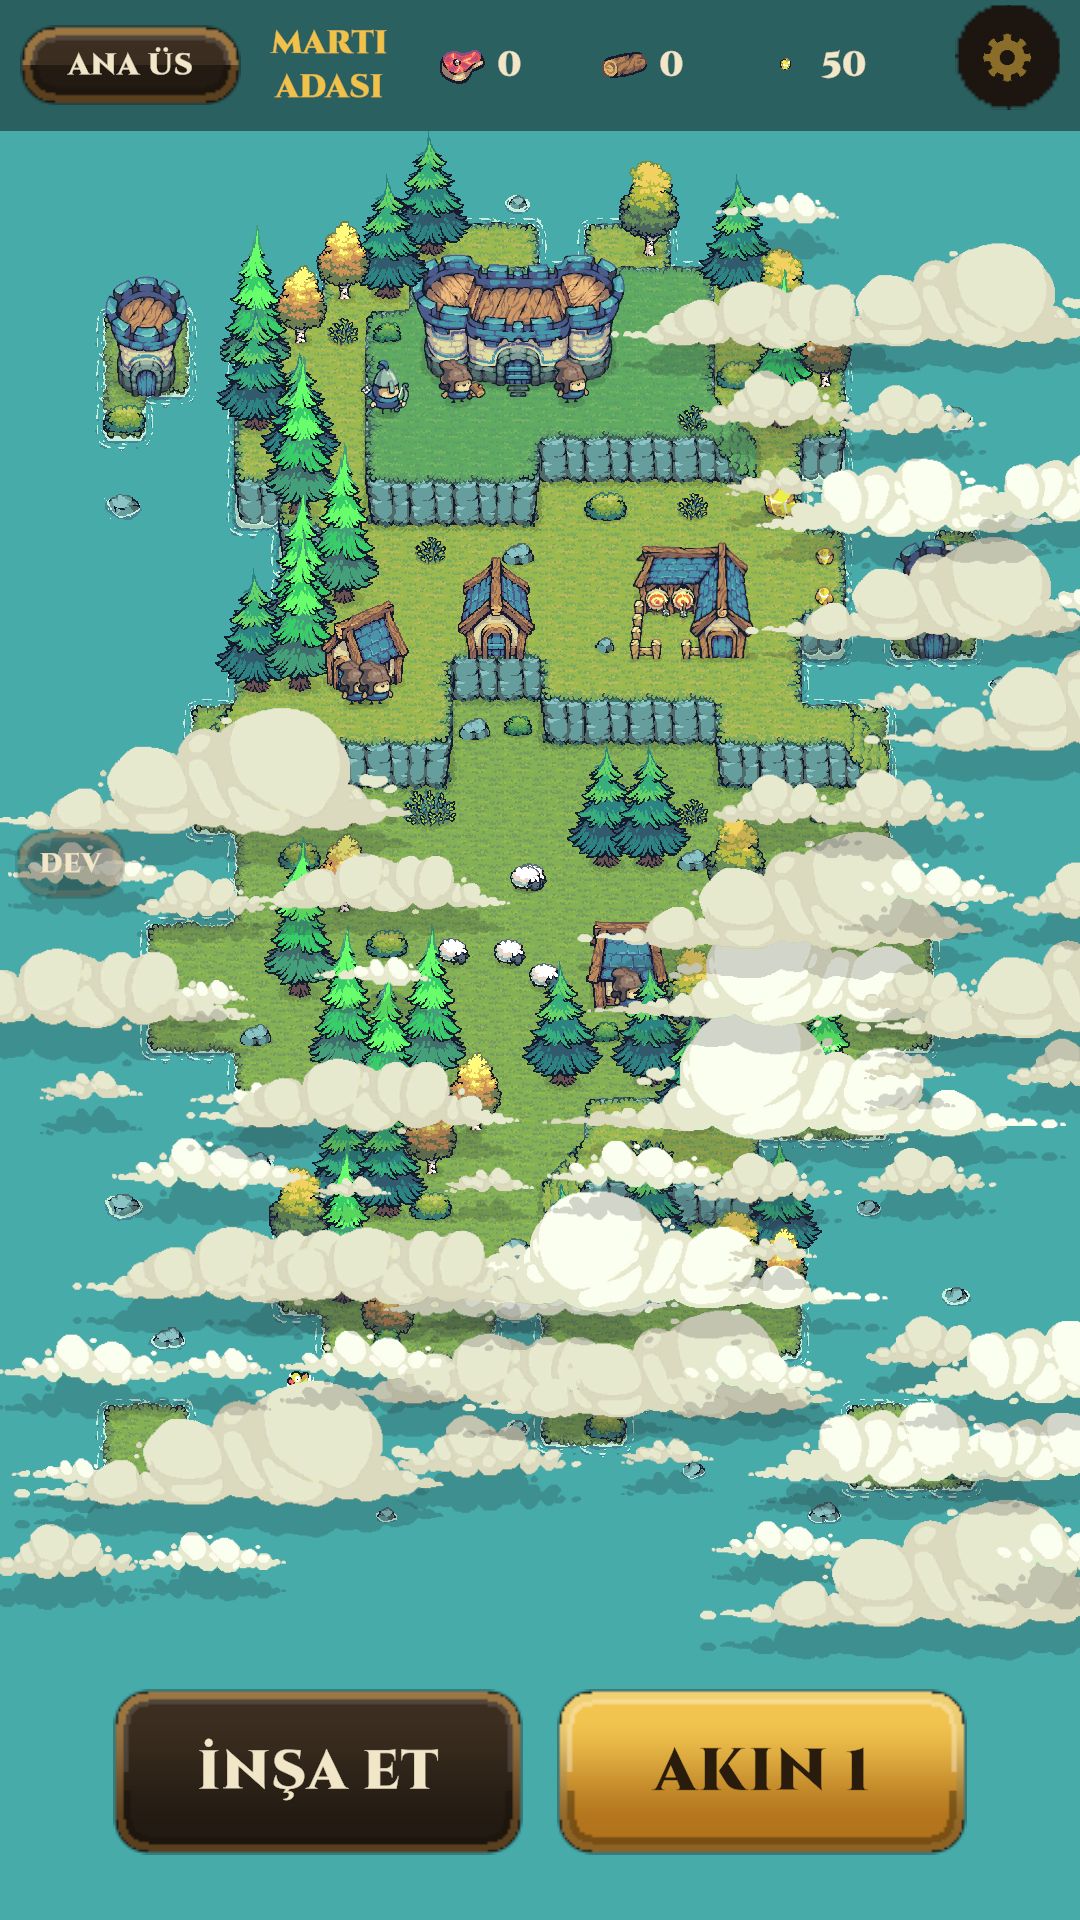
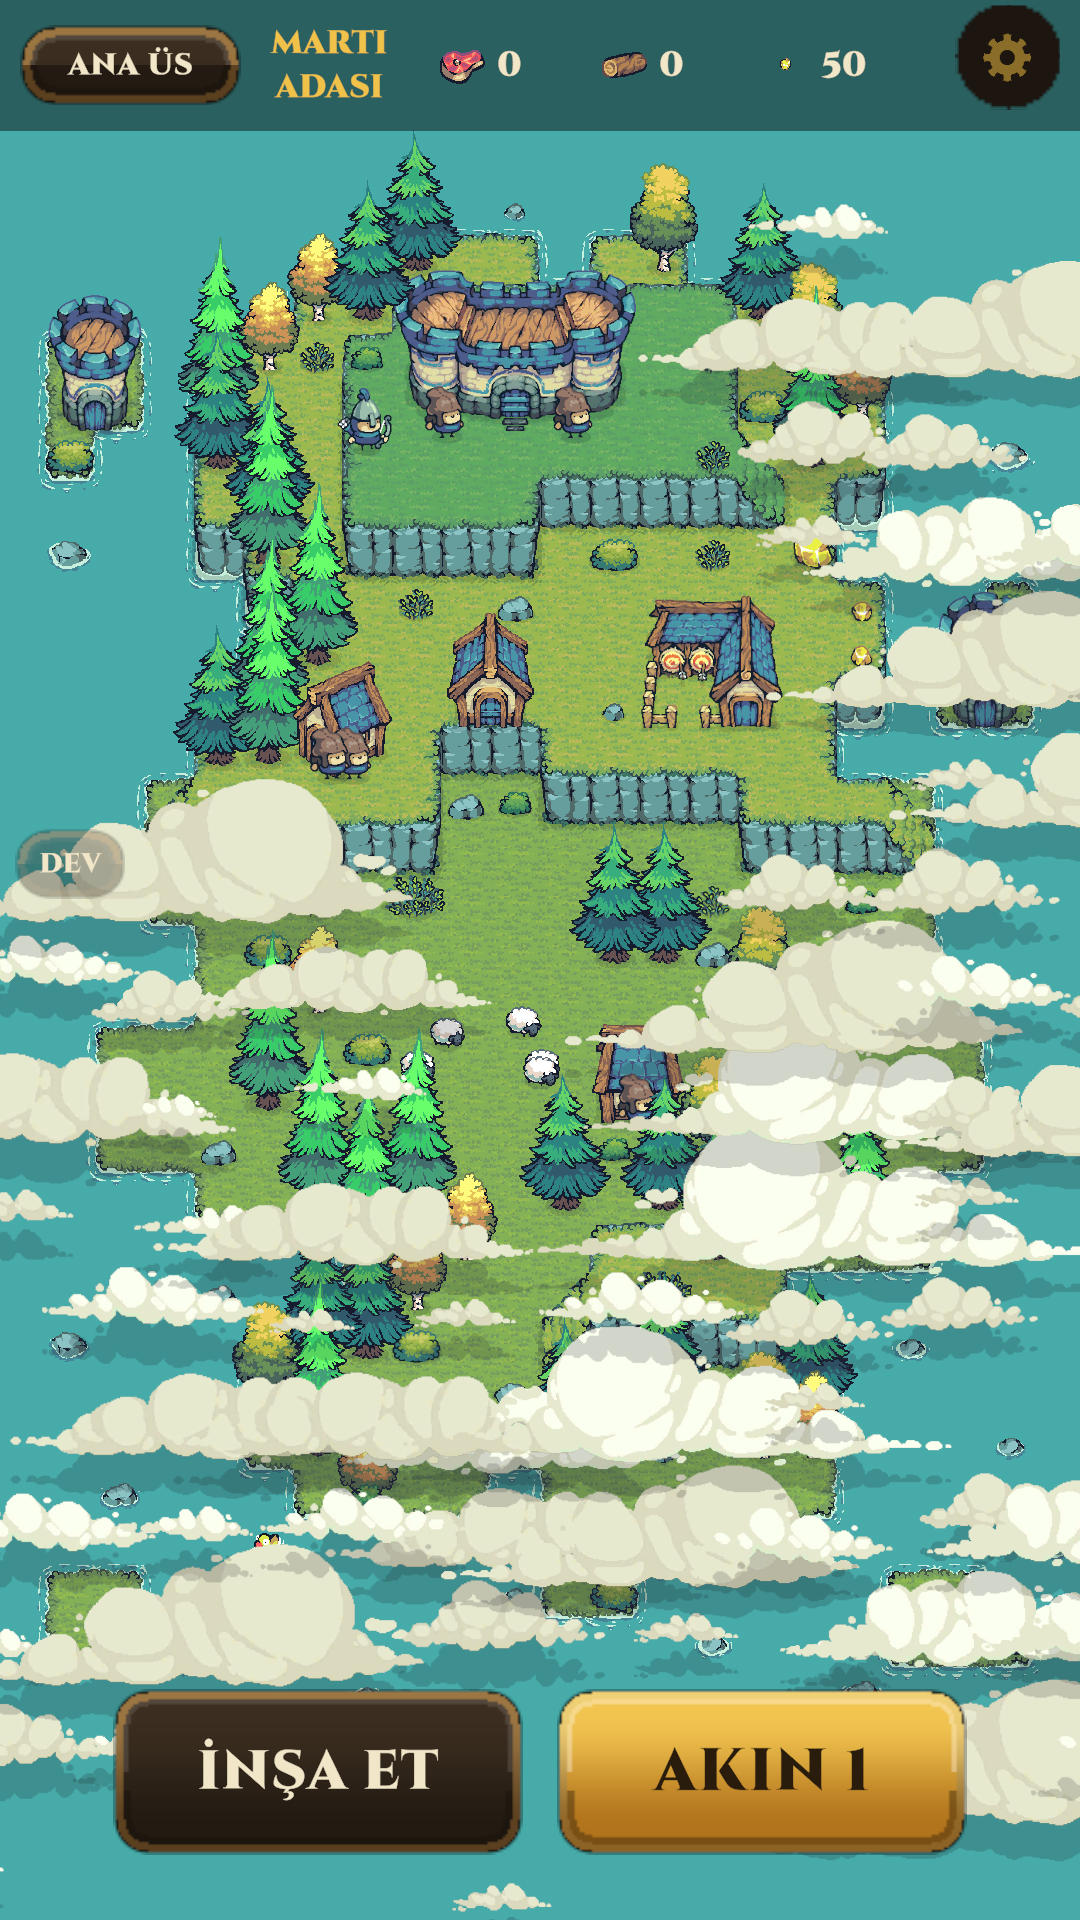
fix(ada): sabit kadraj kara sınırına oturur (adacıklar dahil, deniz payı %2, alt pay %8): ada hedef görseldeki gibi tüm genişliği doldurur; test kara köşelerini denetler

diff --git a/Assets/Scripts/Island/IslandCameraController.cs b/Assets/Scripts/Island/IslandCameraController.cs
@@ -49,17 +49,35 @@ public sealed class IslandCameraController : MonoBehaviour
     /// Sabit kadraj boyu: ada iki yanda deniz payıyla genişliğe sığar, yükseklik üst çubuk/alt düğme payları düşülmüş
     /// bandına sığar; ikisinin büyüğü. Merkez adanın ortası, dikey olarak bant ortasına oturtulur.
     /// </summary>
+    /// <summary>Kara hücrelerinin dünya sınırı (adacıklar dahil; deniz hariç). Kadraj buna göre hesaplanır.</summary>
+    public static Rect LandBounds()
+    {
+        if (landBounds.HasValue) return landBounds.Value;
+        int minC = int.MaxValue, maxC = int.MinValue, minR = int.MaxValue, maxR = int.MinValue;
+        for (int r = 0; r < IslandLayout.Height; r++)
+            for (int c = 0; c < IslandLayout.Width; c++)
+                if (IslandLayout.IsLand(c, r)) { minC = Mathf.Min(minC, c); maxC = Mathf.Max(maxC, c); minR = Mathf.Min(minR, r); maxR = Mathf.Max(maxR, r); }
+        if (minC > maxC) { landBounds = new Rect(0f, 0f, IslandLayout.Width, IslandLayout.Height); return landBounds.Value; }
+        // World(col,row) = (col, Height-row): satır büyüdükçe y küçülür; hücre 1 u. Kıyı köpüğü için yarım hücre pay.
+        float xMin = minC - 0.5f, xMax = maxC + 1.5f;
+        float yMin = IslandLayout.Height - maxR - 1.5f, yMax = IslandLayout.Height - minR + 0.5f;
+        landBounds = Rect.MinMaxRect(Mathf.Max(0f, xMin), Mathf.Max(0f, yMin), Mathf.Min(IslandLayout.Width, xMax), Mathf.Min(IslandLayout.Height, yMax));
+        return landBounds.Value;
+    }
+    private static Rect? landBounds;
+
     public static void ComputeFixedView(float aspect, out Vector2 center, out float size)
     {
         var config = FeatureConfig.Instance;
         aspect = Mathf.Max(0.3f, aspect);
+        var land = config.islandViewFitLand ? LandBounds() : new Rect(0f, 0f, IslandLayout.Width, IslandLayout.Height);
         float usable = Mathf.Clamp(1f - config.islandViewTopHudFraction - config.islandViewBottomHudFraction, 0.3f, 1f);
-        float widthFit = IslandLayout.Width * 0.5f * (1f + 2f * config.islandViewSeaMargin) / aspect;
-        float heightFit = IslandLayout.Height * 0.5f / usable;
+        float widthFit = land.width * 0.5f * (1f + 2f * config.islandViewSeaMargin) / aspect;
+        float heightFit = land.height * 0.5f / usable;
         size = Mathf.Max(widthFit, heightFit);
         // Bandın ortası (alt pay + usable/2) viewport'ta 0.5 değilse dünya merkezini ona göre kaydır
         float bandCenter = config.islandViewBottomHudFraction + usable * 0.5f;
-        center = new Vector2(IslandLayout.Width * 0.5f, IslandLayout.Height * 0.5f - (bandCenter - 0.5f) * 2f * size);
+        center = new Vector2(land.center.x, land.center.y - (bandCenter - 0.5f) * 2f * size);
     }
 
     public void ApplyFixedView()

diff --git a/Assets/Tests/PlayMode/IslandReviewScreenshotsNight.cs b/Assets/Tests/PlayMode/IslandReviewScreenshotsNight.cs
@@ -49,7 +49,10 @@ public partial class IslandReviewScreenshots
             camera.aspect = aspect;
             yield return null;   // IslandSceneSetup.Update en-boy değişimini yakalar
             yield return null;
-            foreach (var corner in new[] { new Vector3(0, 0), new Vector3(22, 0), new Vector3(0, 36), new Vector3(22, 36) })
+            // Kadraj kara sınırına (adacıklar dahil) oturur: kara dikdörtgeninin dört köşesi görünmeli
+            var land = (Rect)controllerType.GetMethod("LandBounds").Invoke(null, null);
+            Assert.Greater(land.width, 15f, "kara sınırı makul");
+            foreach (var corner in new[] { new Vector3(land.xMin, land.yMin), new Vector3(land.xMax, land.yMin), new Vector3(land.xMin, land.yMax), new Vector3(land.xMax, land.yMax) })
             {
                 var v = camera.WorldToViewportPoint(corner);
                 Assert.That(v.x, Is.InRange(-0.001f, 1.001f), $"aspect {aspect:0.000} köşe {corner} x={v.x}");

diff --git a/Assets/Scripts/Data/FeatureConfig.cs b/Assets/Scripts/Data/FeatureConfig.cs
@@ -16,11 +16,13 @@ public sealed class FeatureConfig : ScriptableObject
     [Header("Ada sabit kamera")]
     public bool islandFixedCamera = true;
     /// <summary>Adanın iki yanındaki deniz payı (adanın genişliğinin oranı, her yan).</summary>
-    public float islandViewSeaMargin = 0.05f;
+    public float islandViewSeaMargin = 0.02f;
+    /// <summary>Kadraj dünya (22×36) yerine kara hücrelerinin sınırına göre (adacıklar dahil) hesaplanır.</summary>
+    public bool islandViewFitLand = true;
     /// <summary>Üst çubuğa ayrılan ekran yüksekliği oranı.</summary>
     public float islandViewTopHudFraction = 0.07f;
     /// <summary>Alt düğmelere ayrılan ekran yüksekliği oranı.</summary>
-    public float islandViewBottomHudFraction = 0.11f;
+    public float islandViewBottomHudFraction = 0.08f;
 
     [Header("Bulut geçişi (Ana Üs ↔ Ada)")]
     public bool cloudTransition = true;
